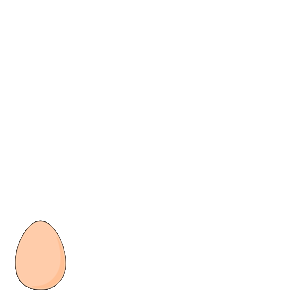
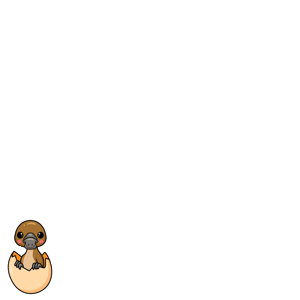
updated platypus

Changed region(s): [[0.0, 0.72, 0.24, 0.99]]

diff --git a/js/site.js b/js/site.js
@@ -11,12 +11,18 @@ const INIT_ROWS = 5;
 const INIT_COLS = 5;
 // code
 
-const platypusInit = async () => {
-    await loadWorld('worlds/first.txt');    
 
+
+const platypusInit = async () => {
+    const canvas = document.getElementById('gridCanvas');
+    canvas.width = canvas.height = CANVAS_SIZE;
+
+    const pw = await loadWorld('worlds/first.txt');    
+    platypus = pw.platypus;
+    world = pw.world;
     // Call the drawWorld function to draw the grid worldially
-    drawWorld();
-    drawPlatypus();
+    drawWorld(canvas);
+    drawPlatypus(canvas);
 }
 const createWorld = () => {
     world = {};
@@ -26,8 +32,8 @@ const createWorld = () => {
         'w': SWIM_COLOR,
         'b': WALL_COLOR,
     }
-    world.canvasSize = CANVAS_SIZE;
     world.grid = [];
+    world.final_grid = []; // for solution
     world.images = {
         c: new Image(), // crab
         e: new Image(), // egg
@@ -63,7 +69,10 @@ const createPlatypus = (world) => {
     platypus.top_left_y = 0;
     platypus.row = 0;
     platypus.col = 0;
-    platypus.square_side_len = world.canvasSize / Math.max(world.numRows, world.numCols);
+    platypus.square_side_len = (can) => {
+        // assume square
+        return can.width / Math.max(world.numRows, world.numCols);
+    }
     platypus.num_rows = world.numRows;
     platypus.num_cols = world.numCols;
     platypus.border = 2;
@@ -71,34 +80,26 @@ const createPlatypus = (world) => {
     return platypus;
 }
 
-const drawWorld = (x, y, src) => {
-    // Get the canvas element and its 2D rendering context
-    const canvas = document.getElementById("gridCanvas");
+const drawWorld = (canvas, finalState = false) => {
     const context = canvas.getContext("2d");
 
     // Set the number of rows and columns
     const numRows = world.numRows;
     const numCols = world.numCols; 
-    const canvasSize = world.canvasSize;
-
-    // Set the size of the canvas
-    canvas.width = world.canvasSize;
-    canvas.height = world.canvasSize;
 
     // Calculate the size of each cell (always square)
-    const cellSize = canvasSize / (Math.max(numRows, numCols));
+    const cellSize = canvas.width / (Math.max(numRows, numCols));
     const width = cellSize * numCols;
     const height = cellSize * numRows;
 
     // Clear the canvas
-    context.clearRect(0, 0, canvasSize, canvasSize);
-
+    context.clearRect(0, 0, canvas.width, canvas.height);
+    context.beginPath();
     // Draw the vertical grid lines
     for (let x = 0; x <= width; x += cellSize) {
         context.moveTo(x, 0);
         context.lineTo(x, height);
     }
-
     // Draw the horizontal grid lines
     for (let y = 0; y <= height; y += cellSize) {
         context.moveTo(0, y);
@@ -115,48 +116,55 @@ const drawWorld = (x, y, src) => {
     // Draw the colored squares and objects
     for (let r = 0; r < world.numRows; r++) {
         for (let c = 0; c < world.numCols; c++) {
-            colorSquare(r, c, world.grid[gridLoc(r, c)].base);
-            for (let obj of world.grid[gridLoc(r, c)].objects) {
-                drawWorldObject(r, c, obj);
+            colorSquare(r, c, world.grid[gridLoc(r, c)].base, canvas);
+            if (finalState) {
+                for (let obj of world.final_grid[gridLoc(r, c)].objects) {
+                    drawWorldObject(r, c, obj, canvas, finalState);
+                }
+            } else {
+                for (let obj of world.grid[gridLoc(r, c)].objects) {
+                    drawWorldObject(r, c, obj, canvas, finalState);
+                }
             }
         }
     }
 
     // draw the text
     document.querySelector('#instructions').innerText = world.text;
+
 }
 
-const drawPlatypus = ()  => {
-    const canvas = document.getElementById("gridCanvas");
+const drawPlatypus = (canvas, finalState = false)  => {
     const context = canvas.getContext("2d");
-    const xpos = platypus.col * platypus.square_side_len + platypus.border;
-    const ypos = platypus.row * platypus.square_side_len + platypus.border;
-    if (world.images['plat'+platypus.direction].loaded) {
-        context.drawImage(world.images['plat'+platypus.direction], xpos, ypos, platypus.square_side_len- 2 * platypus.border, platypus.square_side_len - 2 * platypus.border);
+    const col = finalState ? platypus.final_col : platypus.col;
+    const row = finalState ? platypus.final_row : platypus.row;
+    const xpos = col * platypus.square_side_len(canvas) + platypus.border;
+    const ypos = row * platypus.square_side_len(canvas) + platypus.border;
+    const platDir = finalState ? platypus.final_direction : platypus.direction;
+    if (world.images['plat'+platDir].loaded) {
+        context.drawImage(world.images['plat'+platDir], xpos, ypos, platypus.square_side_len(canvas) - 2 * platypus.border, platypus.square_side_len(canvas) - 2 * platypus.border);
     } else {
-        setTimeout(drawPlatypus, 50); // wait for image to load
+        setTimeout(() => drawPlatypus(canvas, finalState), 50); // wait for image to load
     }
 }
 
-const drawWorldObject = (row, col, base)  => {
-    const canvas = document.getElementById("gridCanvas");
+const drawWorldObject = (row, col, base, canvas, finalState = false)  => {
     const context = canvas.getContext("2d");
-    const xpos = col * platypus.square_side_len + platypus.border;
-    const ypos = row * platypus.square_side_len + platypus.border;
+    const xpos = col * platypus.square_side_len(canvas) + platypus.border;
+    const ypos = row * platypus.square_side_len(canvas) + platypus.border;
     if (world.images[base].loaded) {
-        context.drawImage(world.images[base], xpos, ypos, platypus.square_side_len- 2 * platypus.border, platypus.square_side_len - 2 * platypus.border);
+        context.drawImage(world.images[base], xpos, ypos, platypus.square_side_len(canvas) - 2 * platypus.border, platypus.square_side_len(canvas) - 2 * platypus.border);
     } else {
-        setTimeout(() => drawWorldObject(row, col, base), 50); // wait for image to load
+        setTimeout(() => drawWorldObject(row, col, base, canvas), 50); // wait for image to load
     }
 }
 
-const colorSquare = (row, col, base) => {
-    const canvas = document.getElementById("gridCanvas");
+const colorSquare = (row, col, base, canvas) => {
     const context = canvas.getContext("2d");
-    const xpos = col * platypus.square_side_len + 1;
-    const ypos = row * platypus.square_side_len + 1;
+    const xpos = col * platypus.square_side_len(canvas) + 1;
+    const ypos = row * platypus.square_side_len(canvas) + 1;
     context.beginPath();
-    context.rect(xpos, ypos, platypus.square_side_len - 2, platypus.square_side_len - 2);
+    context.rect(xpos, ypos, platypus.square_side_len(canvas) - 2, platypus.square_side_len(canvas) - 2);
     context.fillStyle = world.bases[base];
     context.fill();
 }
@@ -173,8 +181,8 @@ const rotatePlatypus = (clockwise) => {
     const new_dir = directionMap[platypus.direction];
     platypus.direction = new_dir;
     platypus.image = world.images['plat'+new_dir];
-    drawWorld();
-    drawPlatypus();
+    drawWorld(document.querySelector("#gridCanvas"));
+    drawPlatypus(document.querySelector("#gridCanvas"));
 }
 window.rotatePlatypus = rotatePlatypus;
 
@@ -190,7 +198,7 @@ const movePlatypus = (base) => {
             // cannot go out of bounds or through walls
         case 'E':
             if (platypus.col == platypus.num_cols - 1 ||
-                world.grid[gridLoc(platypus.row, platypus.col + 1)] == GROUND_COLOR) {
+                world.grid[gridLoc(platypus.row, platypus.col + 1)].base == 'l') {
                 // alert("Cannot go outside of grid!");
                 return false;
             }
@@ -198,7 +206,7 @@ const movePlatypus = (base) => {
             break;
         case 'S':
             if (platypus.row == platypus.num_rows - 1 ||
-                world.grid[gridLoc(platypus.row + 1, platypus.col)] == GROUND_COLOR) {
+                world.grid[gridLoc(platypus.row + 1, platypus.col)].base == 'l') {
                 // alert("Cannot go outside of grid!");
                 return false;
             }
@@ -206,7 +214,7 @@ const movePlatypus = (base) => {
             break;
         case 'W':
             if (platypus.col == 0 || 
-                world.grid[gridLoc(platypus.row, platypus.col - 1)] == GROUND_COLOR) {
+                world.grid[gridLoc(platypus.row, platypus.col - 1)].base == 'l') { 
                 // alert("Cannot go outside of grid!");
                 return false;
             }
@@ -214,7 +222,7 @@ const movePlatypus = (base) => {
             break;
         case 'N':
             if (platypus.row == 0 ||
-                world.grid[gridLoc(platypus.row - 1, platypus.col)] == GROUND_COLOR) {
+                world.grid[gridLoc(platypus.row - 1, platypus.col)].base == 'l') {
                 // alert("Cannot go outside of grid!");
                 return false;
             }
@@ -230,14 +238,14 @@ const movePlatypus = (base) => {
             break;
     }
 
-    drawWorld();
-    drawPlatypus();
+    drawWorld(document.querySelector("#gridCanvas"));
+    drawPlatypus(document.querySelector("#gridCanvas"));
     return true;
 }
 window.movePlatypus = movePlatypus;
 
 const loadWorld = async (url, eraseCode) => {
-    await fetch(url)
+    const pw = await fetch(url)
         .then(res => res.text())
         .then(data => {
             world = createWorld();
@@ -257,8 +265,11 @@ const loadWorld = async (url, eraseCode) => {
                 } else if (line == 'cols:') {
                     world.numCols = parseInt(lines[line_num + 1]);
                     line_num++;
-                } else if (line == 'init_direction:') {
+                } else if (line == 'platypus_init_direction:') {
                     platypus.direction = lines[line_num + 1];
+                    line_num++;
+                } else if (line == 'platypus_final_direction:') {
+                    platypus.final_direction = lines[line_num + 1];
                     line_num++;
                 } else if (line == 'world:') {
                     for (var row = 0; row < world.numRows; row++) {
@@ -266,21 +277,49 @@ const loadWorld = async (url, eraseCode) => {
                         line = lines[line_num];
                         for (var col = 0; col < world.numCols; col++) {
                             world.grid.push({base: line[col], objects: []});
+                            world.final_grid.push({base: line[col], objects: []});
                         }
                         platypus = createPlatypus(world);
                     }
                     line_num++;
-                } else if (line == 'objects:') {
+                } else if (line == 'objects:' || line == 'final_objects:') {
+                    let grid = world.grid;
+                    if (line == 'final_objects:') {
+                        grid = world.final_grid;
+                    }
                     for (var row = 0; row < world.numRows; row++) {
                         line_num++;
                         line = lines[line_num];
-                        for (var col = 0; col < world.numCols; col++) {
-                            if (line[col] == 'p') {
-                                platypus.row = row;
-                                platypus.col = col;
-                            } else if (line[col] != '.') {
-                                world.grid[row * world.numCols + col].objects.push(line[col]);
+                        let pos = 0;
+                        let col = 0;
+                        let multipleObj = false;
+                        while (col < world.numCols) {
+                            const nextToken = line[pos];
+                            if (nextToken == '[') {
+                                multipleObj = true;
+                                pos++;
+                                continue;
+                            } else if (nextToken == ']') {
+                                multipleObj = false;
+                                pos++;
+                                col++;
+                                continue;
                             }
+                            if (nextToken == 'p') {
+                                if (grid == world.grid) {
+                                    platypus.row = row;
+                                    platypus.col = col;
+                                } else {
+                                    platypus.final_row = row;
+                                    platypus.final_col = col;
+                                }
+                            } else if (nextToken != '.') {
+                                grid[row * world.numCols + col].objects.push(line[pos]);
+                            }
+                            if (!multipleObj) {
+                                col++;
+                            }
+                            pos++;
                         }
                     }
                     line_num++;
@@ -299,13 +338,23 @@ const loadWorld = async (url, eraseCode) => {
                 // console.log(line); 
                 line_num++;
             }
-            platypus.square_side_len = world.canvasSize / Math.max(world.numRows, world.numCols);
-            drawWorld();
-            drawPlatypus();
+            const mainCanvas = document.querySelector('#gridCanvas');
+            drawWorld(mainCanvas);
+            drawPlatypus(mainCanvas);
+
+            // draw the final image
+            const finalCanvas = document.querySelector("#finalCanvas");
+            finalCanvas.width = mainCanvas.width / 1.5;
+            finalCanvas.height = mainCanvas.height / 1.5;
+            drawWorld(finalCanvas, true);
+            drawPlatypus(finalCanvas, true);
+
             if (eraseCode) {
                 erase_code();
             }
+            return {world: world, platypus: platypus};
         });
+    return pw;
 }
 window.loadWorld = loadWorld;
 
@@ -337,15 +386,15 @@ window.put_down = put_down;
 const removeObjectFromWorld = (row, col, obj) => {
     const loc = gridLoc(platypus.row, platypus.col);
     world.grid[loc].objects.pop(world.grid[loc].objects.indexOf(obj)); 
-    drawWorld();
-    drawPlatypus();
+    drawWorld(document.querySelector("#gridCanvas"));
+    drawPlatypus(document.querySelector("#gridCanvas"));
 }
 
 const addObjectToWorld = (row, col, obj) => {
     const loc = gridLoc(platypus.row, platypus.col);
     world.grid[loc].objects.push(obj); 
-    drawWorld();
-    drawPlatypus();
+    drawWorld(document.querySelector("#gridCanvas"));
+    drawPlatypus(document.querySelector("#gridCanvas"));
 }
 
 const addCommandToProgram = (command) => {

diff --git a/index.html b/index.html
@@ -17,6 +17,8 @@
                 <button onclick='loadWorld("worlds/river.txt", true)'>River</button>
                 <p>
                 <div id="instructions"></div>
+                After you finish, the platypus world should look like this:<p>
+                <canvas id="finalCanvas"></canvas>
             </div>
             <div class='child'>
                 <canvas id="gridCanvas"></canvas>
